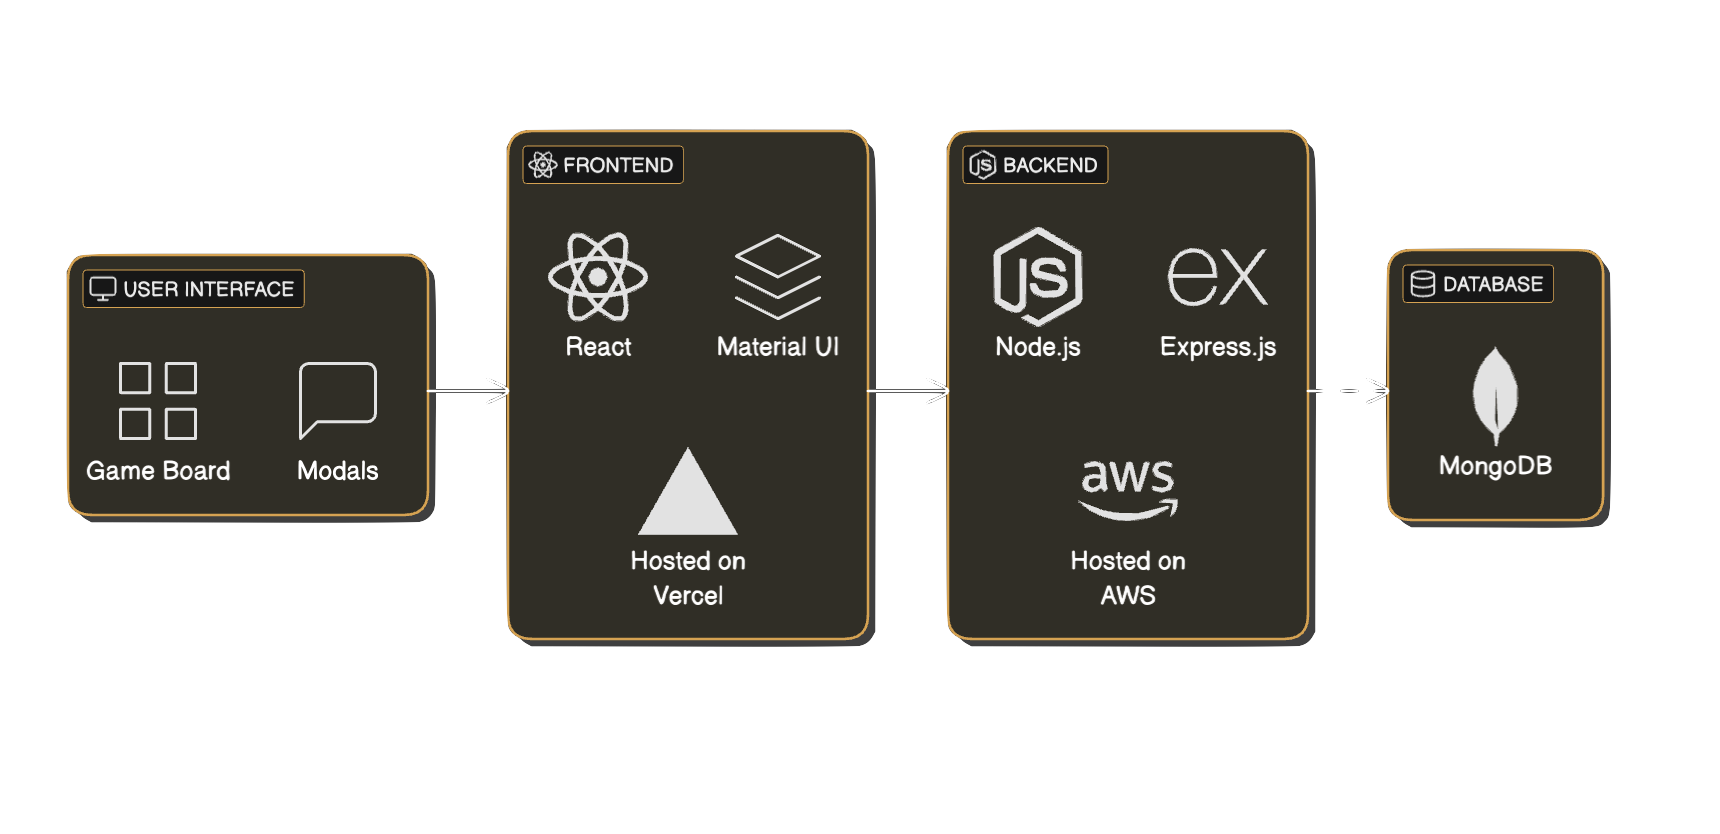
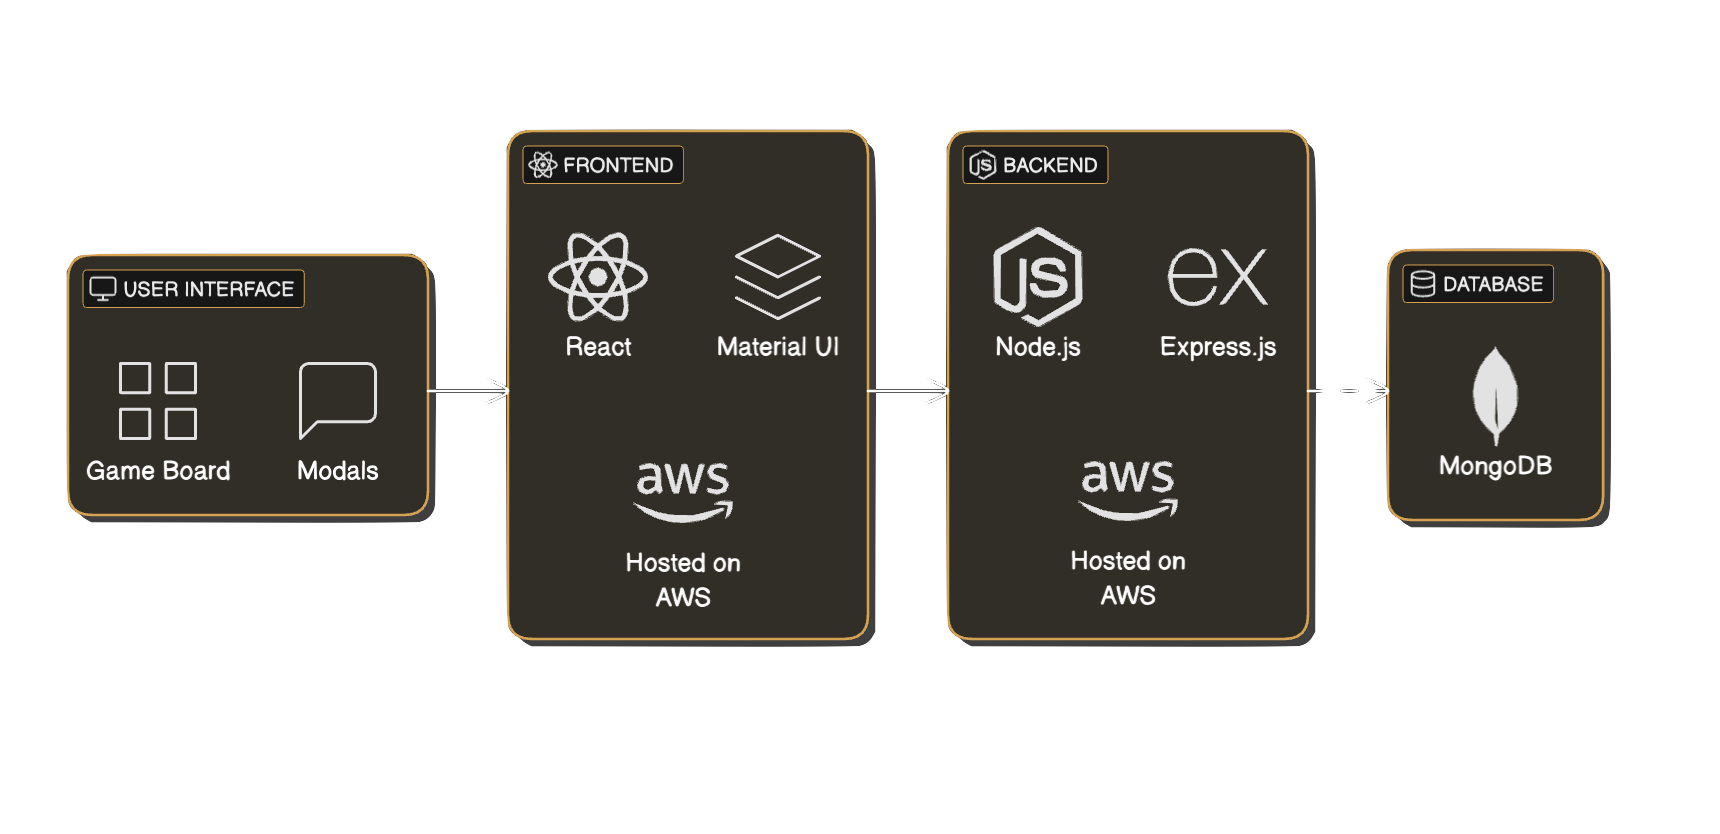
Update readme

Changed region(s): [[0.339, 0.53, 0.4314, 0.7482]]

diff --git a/README.md b/README.md
@@ -13,7 +13,7 @@ This project is a real-time, multiplayer Tic-Tac-Toe game built with React for t
 - **Backend**: Node.js (Express.js)
 - **State Management**: RESTful API for game state updates
 - **Database**: MongoDB
-- **Deployment**: Deployed on Vercel and AWS
+- **Deployment**: Deployed on AWS
 
 ## Installation
 
